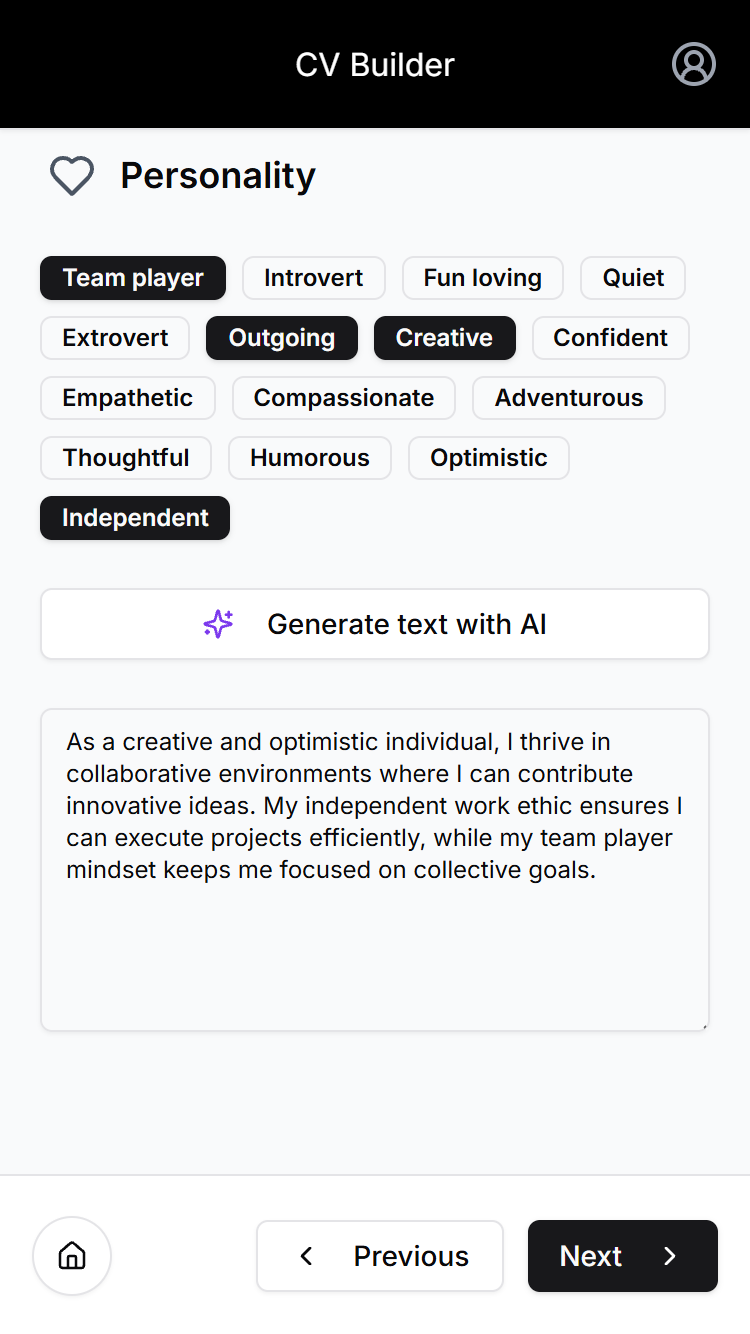
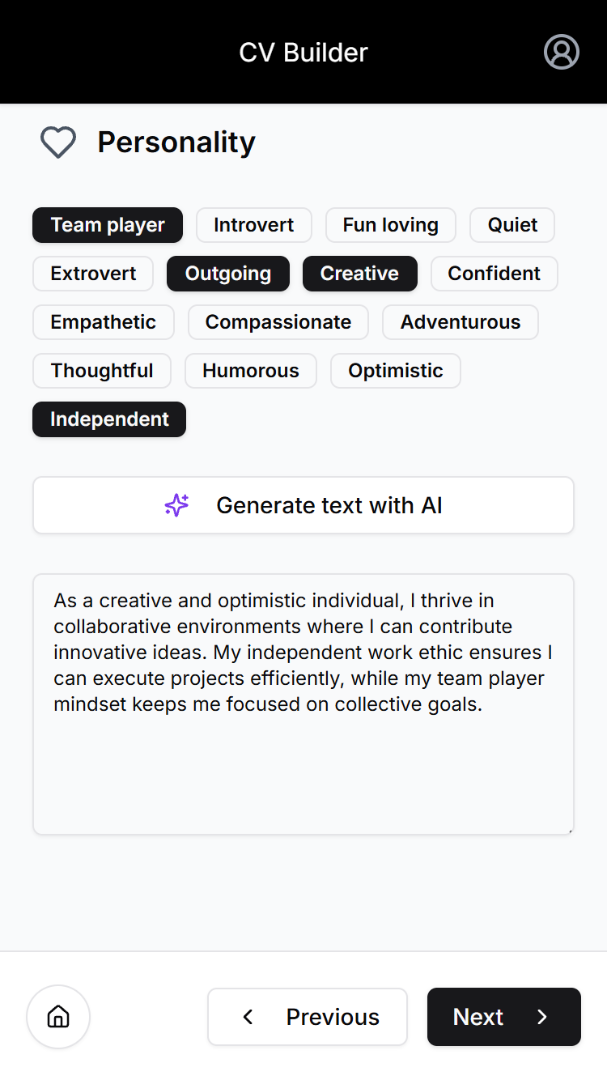
Compressed screenshots

diff --git a/README.md b/README.md
@@ -16,9 +16,9 @@ Built as a full-stack personal project using Next.js on the frontend and a serve
 
 ## Screenshots
 
-<img src="public/images/screenshots/personality.png" alt="Personality page" width="700" />
+![Personality page](public/images/screenshots/personality.png)
 
-<img src="public/images/screenshots/topskills-discussion.png" alt="Topskills discussion" width="700" />
+![Topskills discussion](public/images/screenshots/topskills-discussion.png)
 
 ---
 
